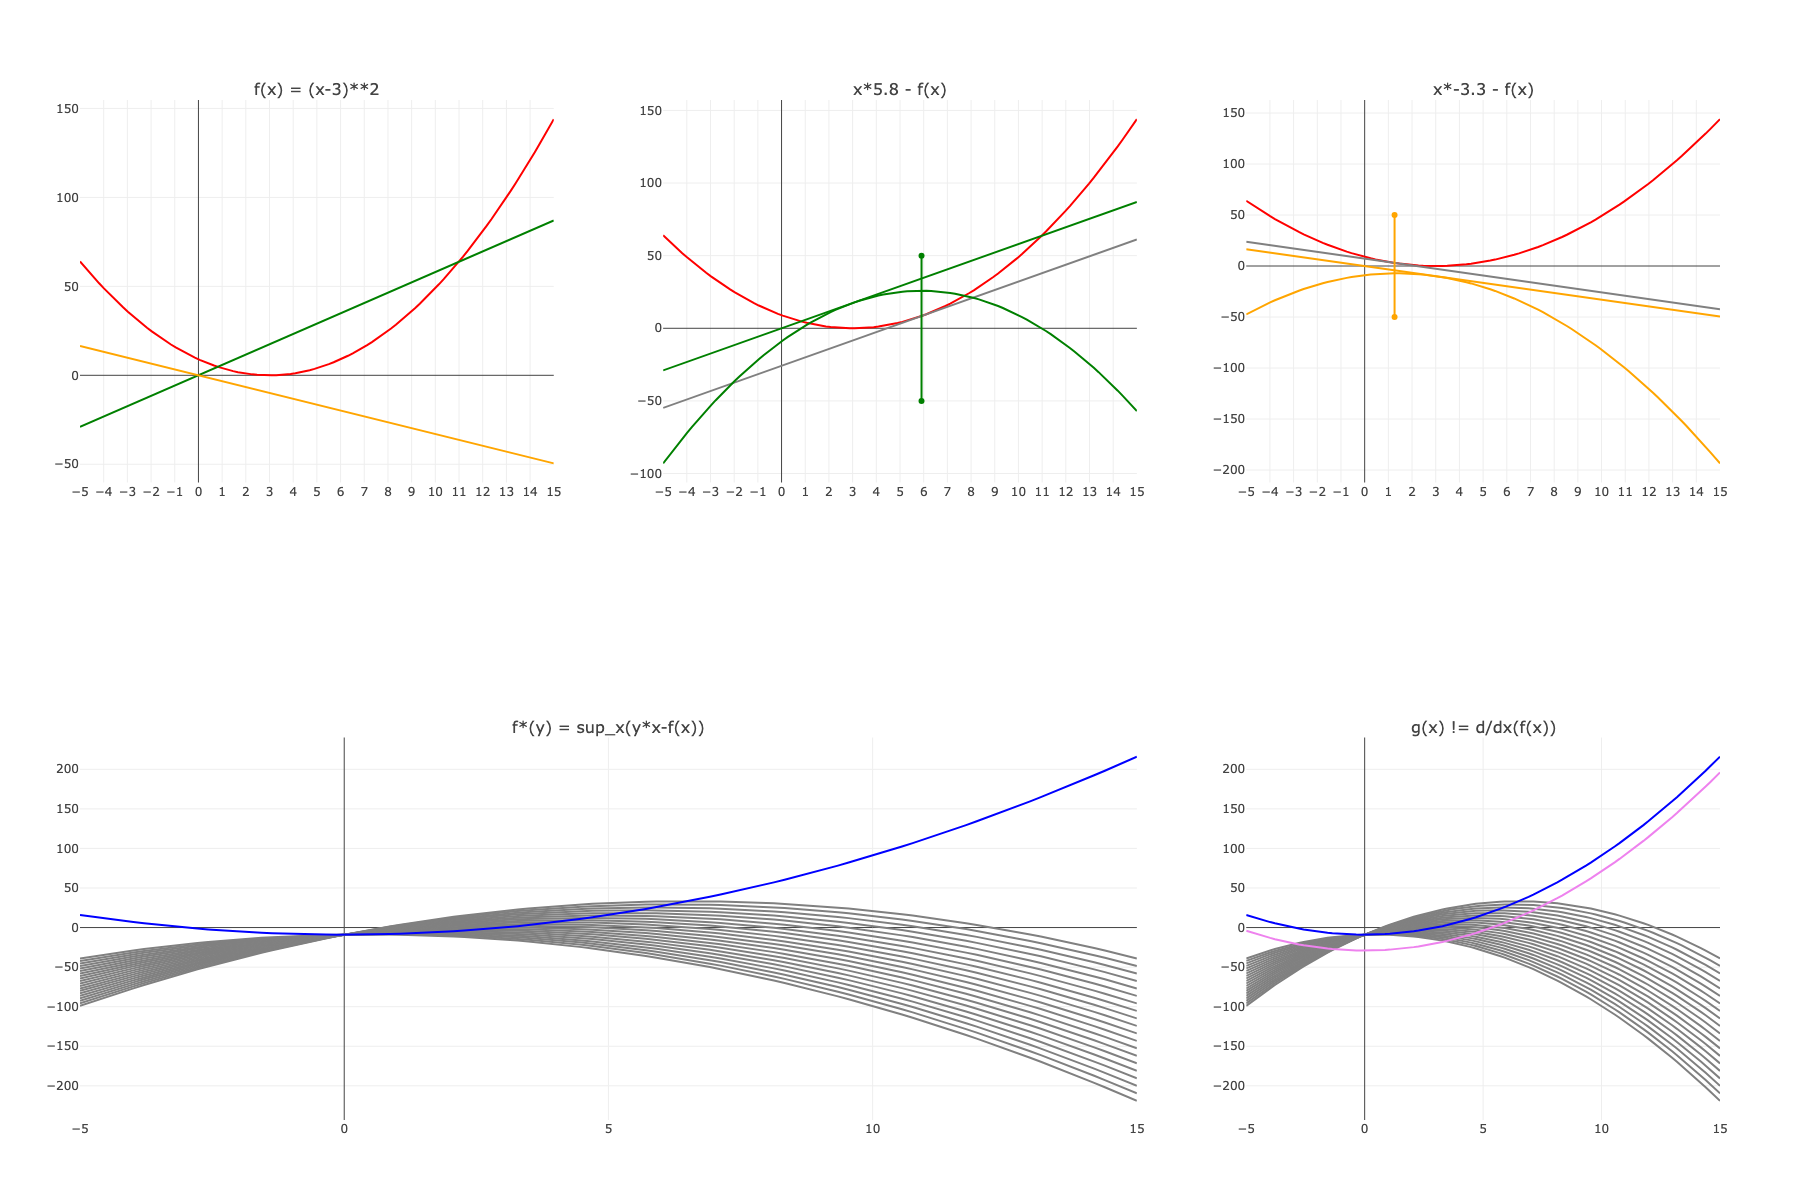
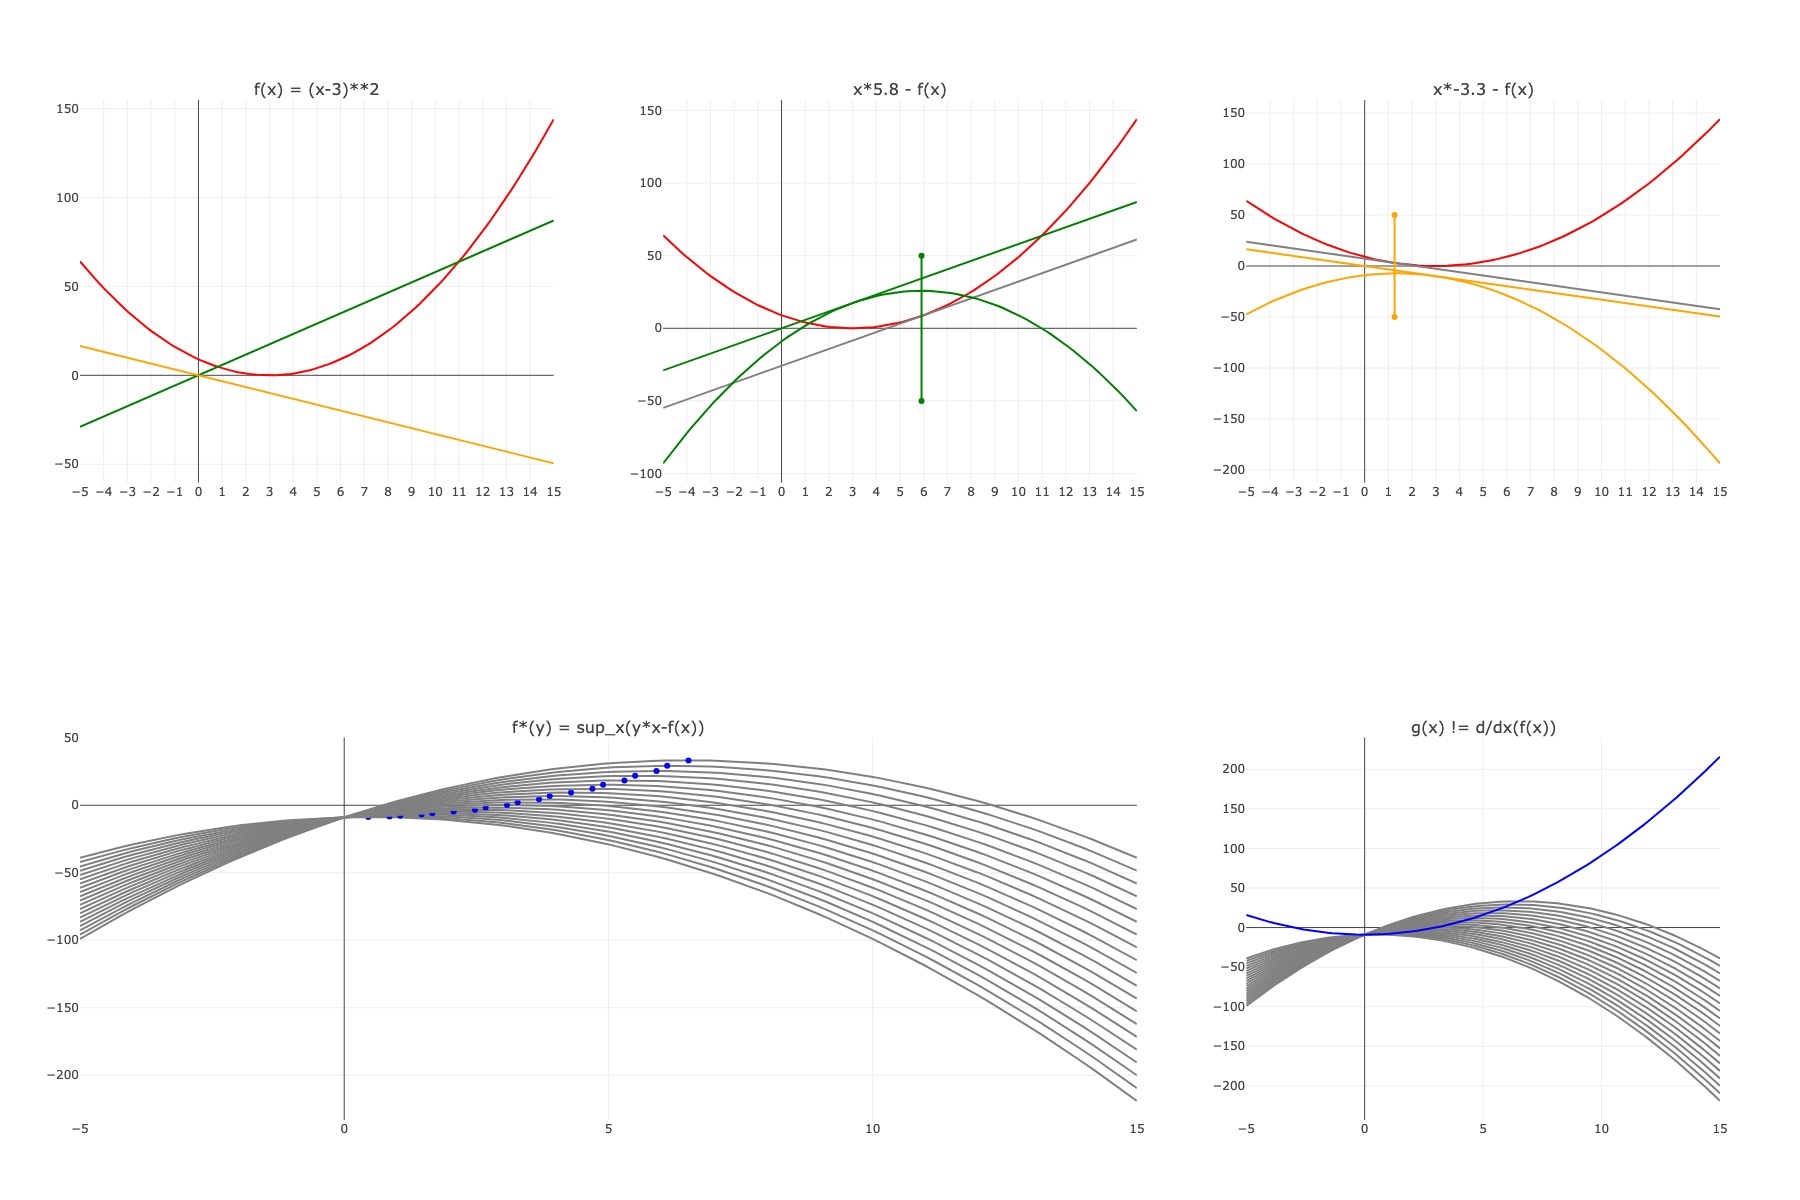
feat: Add new convex conjugate img

Changed region(s): [[0.0311, 0.6167, 0.6533, 0.925]]

diff --git a/_posts/2025-01-05-F-GANs.md b/_posts/2025-01-05-F-GANs.md
@@ -32,7 +32,7 @@ where:
 
 - $ \frac{dP}{dQ} $ is the **Radon–Nikodym derivative** of P with respect to Q,
 - $ P \ll Q $ indicates that P is absolutely continuous with respect to Q (i.e., $ P(A) = 0 $ whenever $ Q(A) = 0 $),
-- $ f : \mathbb{R} \to \mathbb{R} $ is a convex function satisfying $ f(1) = 0 $.
+- $ f : I \to \mathbb{R} $ is a convex function satisfying $ f(1) = 0 $.
 
 ### F-divergences duality
 
@@ -52,7 +52,7 @@ where:
 
 
 
-
+**Proof**
 
 $$
 \begin{align}
@@ -64,6 +64,8 @@ D_f(P \| Q) = \int_\chi  f\left( \frac{dP}{dQ} (x) \right) dQ(x) \\
 = \mathbb{E}_P[g(X)] - \mathbb{E}_Q[f^*(g(X))]
 \end{align}
 $$
+
+![alt text](https://github.com/StefanoPenazzi2/StefanoPenazzi2.github.io/blob/main/imgs/g_x_no_opt.png?raw=true)
 
 ![alt text](https://github.com/StefanoPenazzi2/StefanoPenazzi2.github.io/blob/main/imgs/1d_dist_comp_gans.png?raw=true)
 
